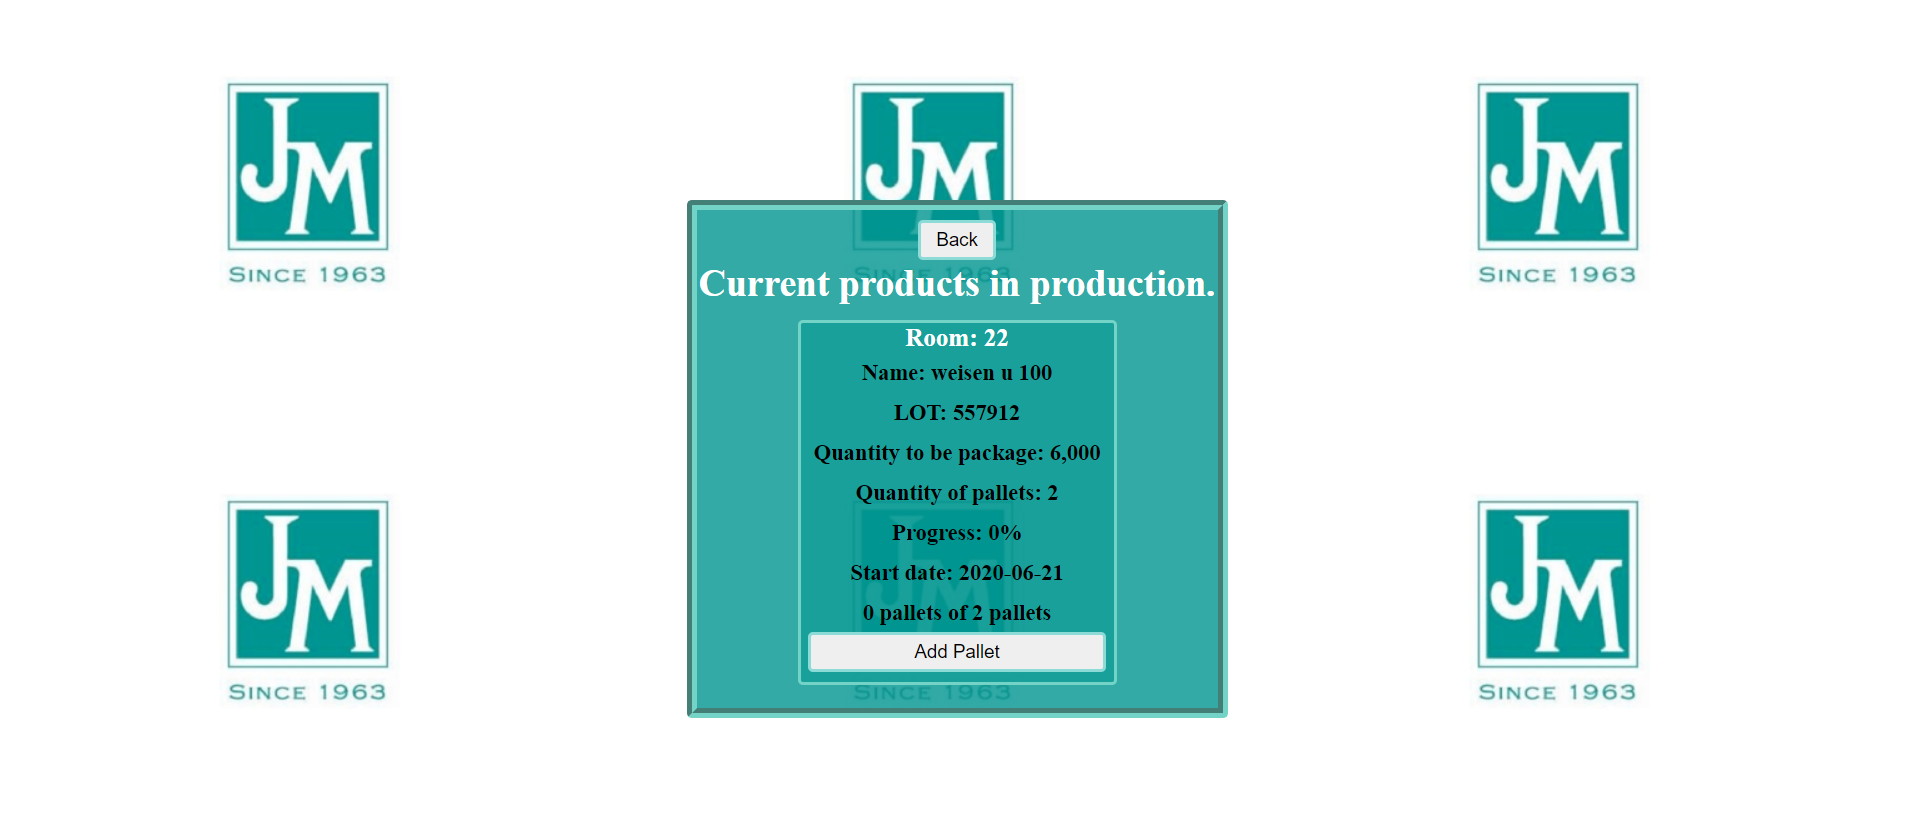
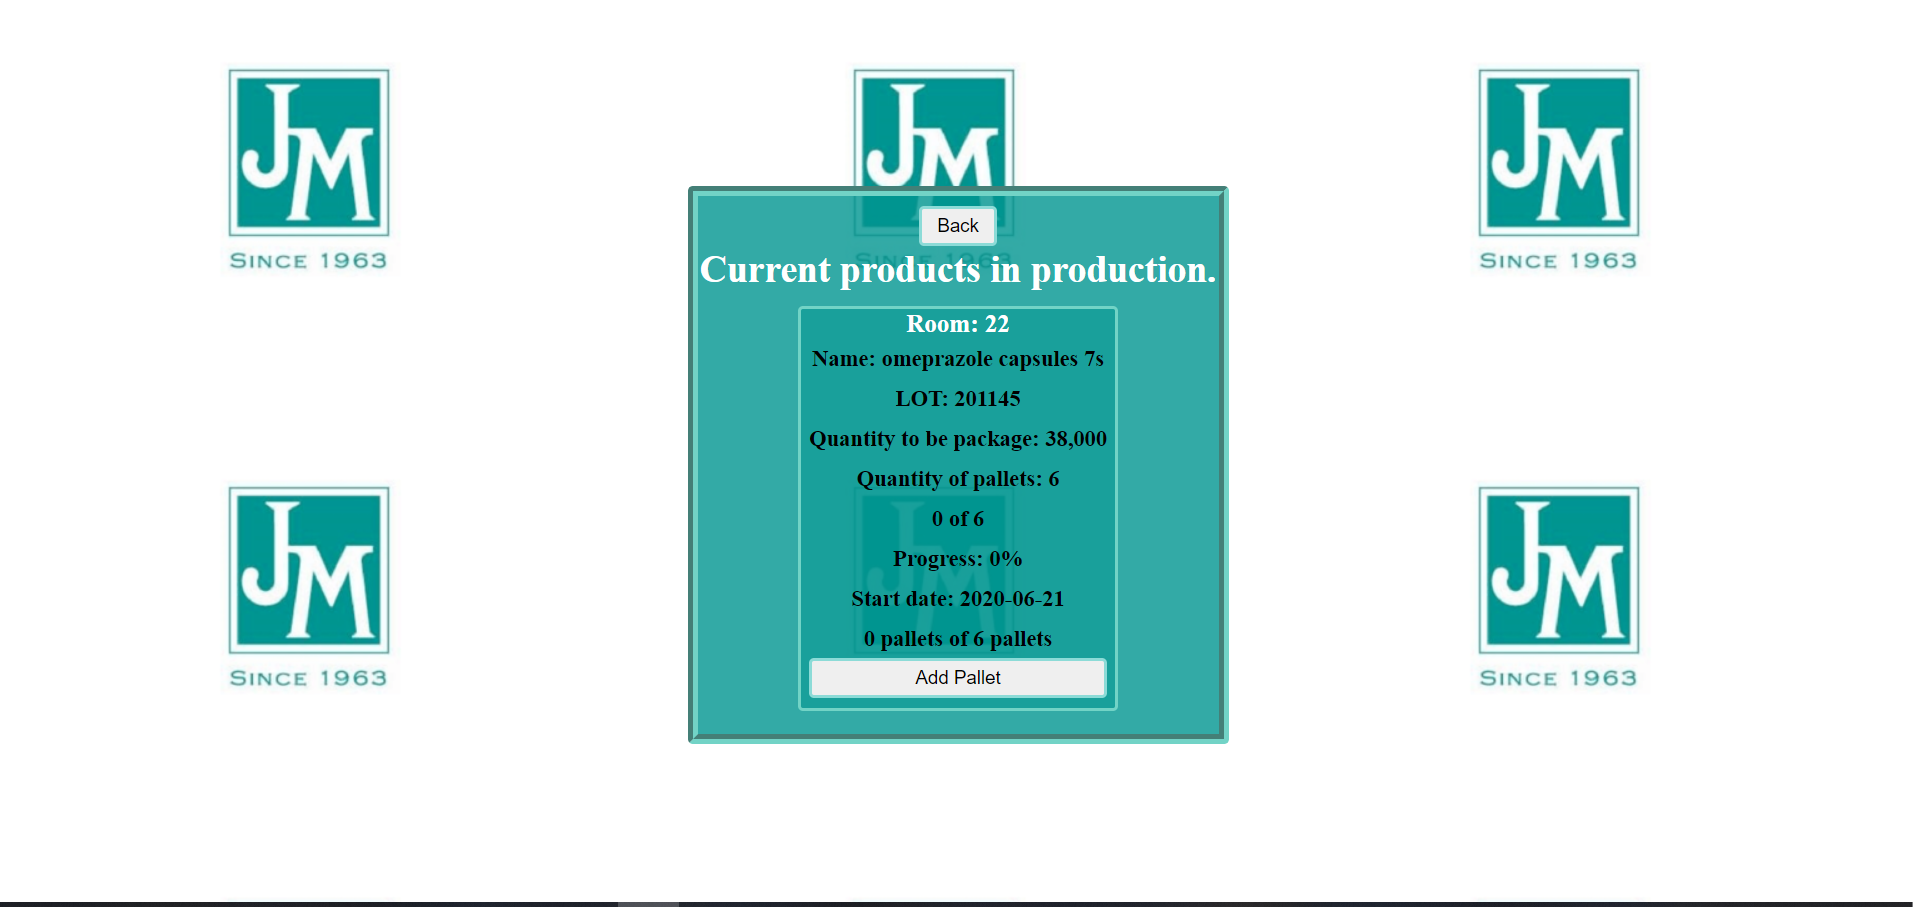
new images

diff --git a/js/Register_new_product.js b/js/Register_new_product.js
@@ -83,7 +83,7 @@ wrapper = new Vue({
         },
         registerproduct: function() {
             if(this.checkinputs()) {
-                /*axios.post("index.php?url=register_product", {'type':this.type,'name':this.name,'quantity_box':this.quantity_box,'box_pallet':this.box_pallet}
+                axios.post("index.php?url=register_product", {'type':this.type,'name':this.name,'quantity_box':this.quantity_box,'box_pallet':this.box_pallet}
                 ).then((response)=>{
                     if (response.data) {
                         this.done = true;
@@ -96,8 +96,7 @@ wrapper = new Vue({
                         this.done = true;
                         this.message = "This products is already registered!.";
                     }
-                })*/
-                console.log("perfecto");
+                })
             }
         },
         close:function() {

diff --git a/Views/admin_views/see_actual_products.php b/Views/admin_views/see_actual_products.php
@@ -36,6 +36,9 @@
                                     <tr>    
                                         <td>Quantity of pallets: {{i.pallets}}</td>
                                     </tr>
+                                    <tr>    
+                                        <td>{{i.finished_pallets}} of {{i.pallets}}</td>
+                                    </tr>
                                     <tr> 
                                         <td>Progress: {{i.progress}}%</td>
                                     </tr>
